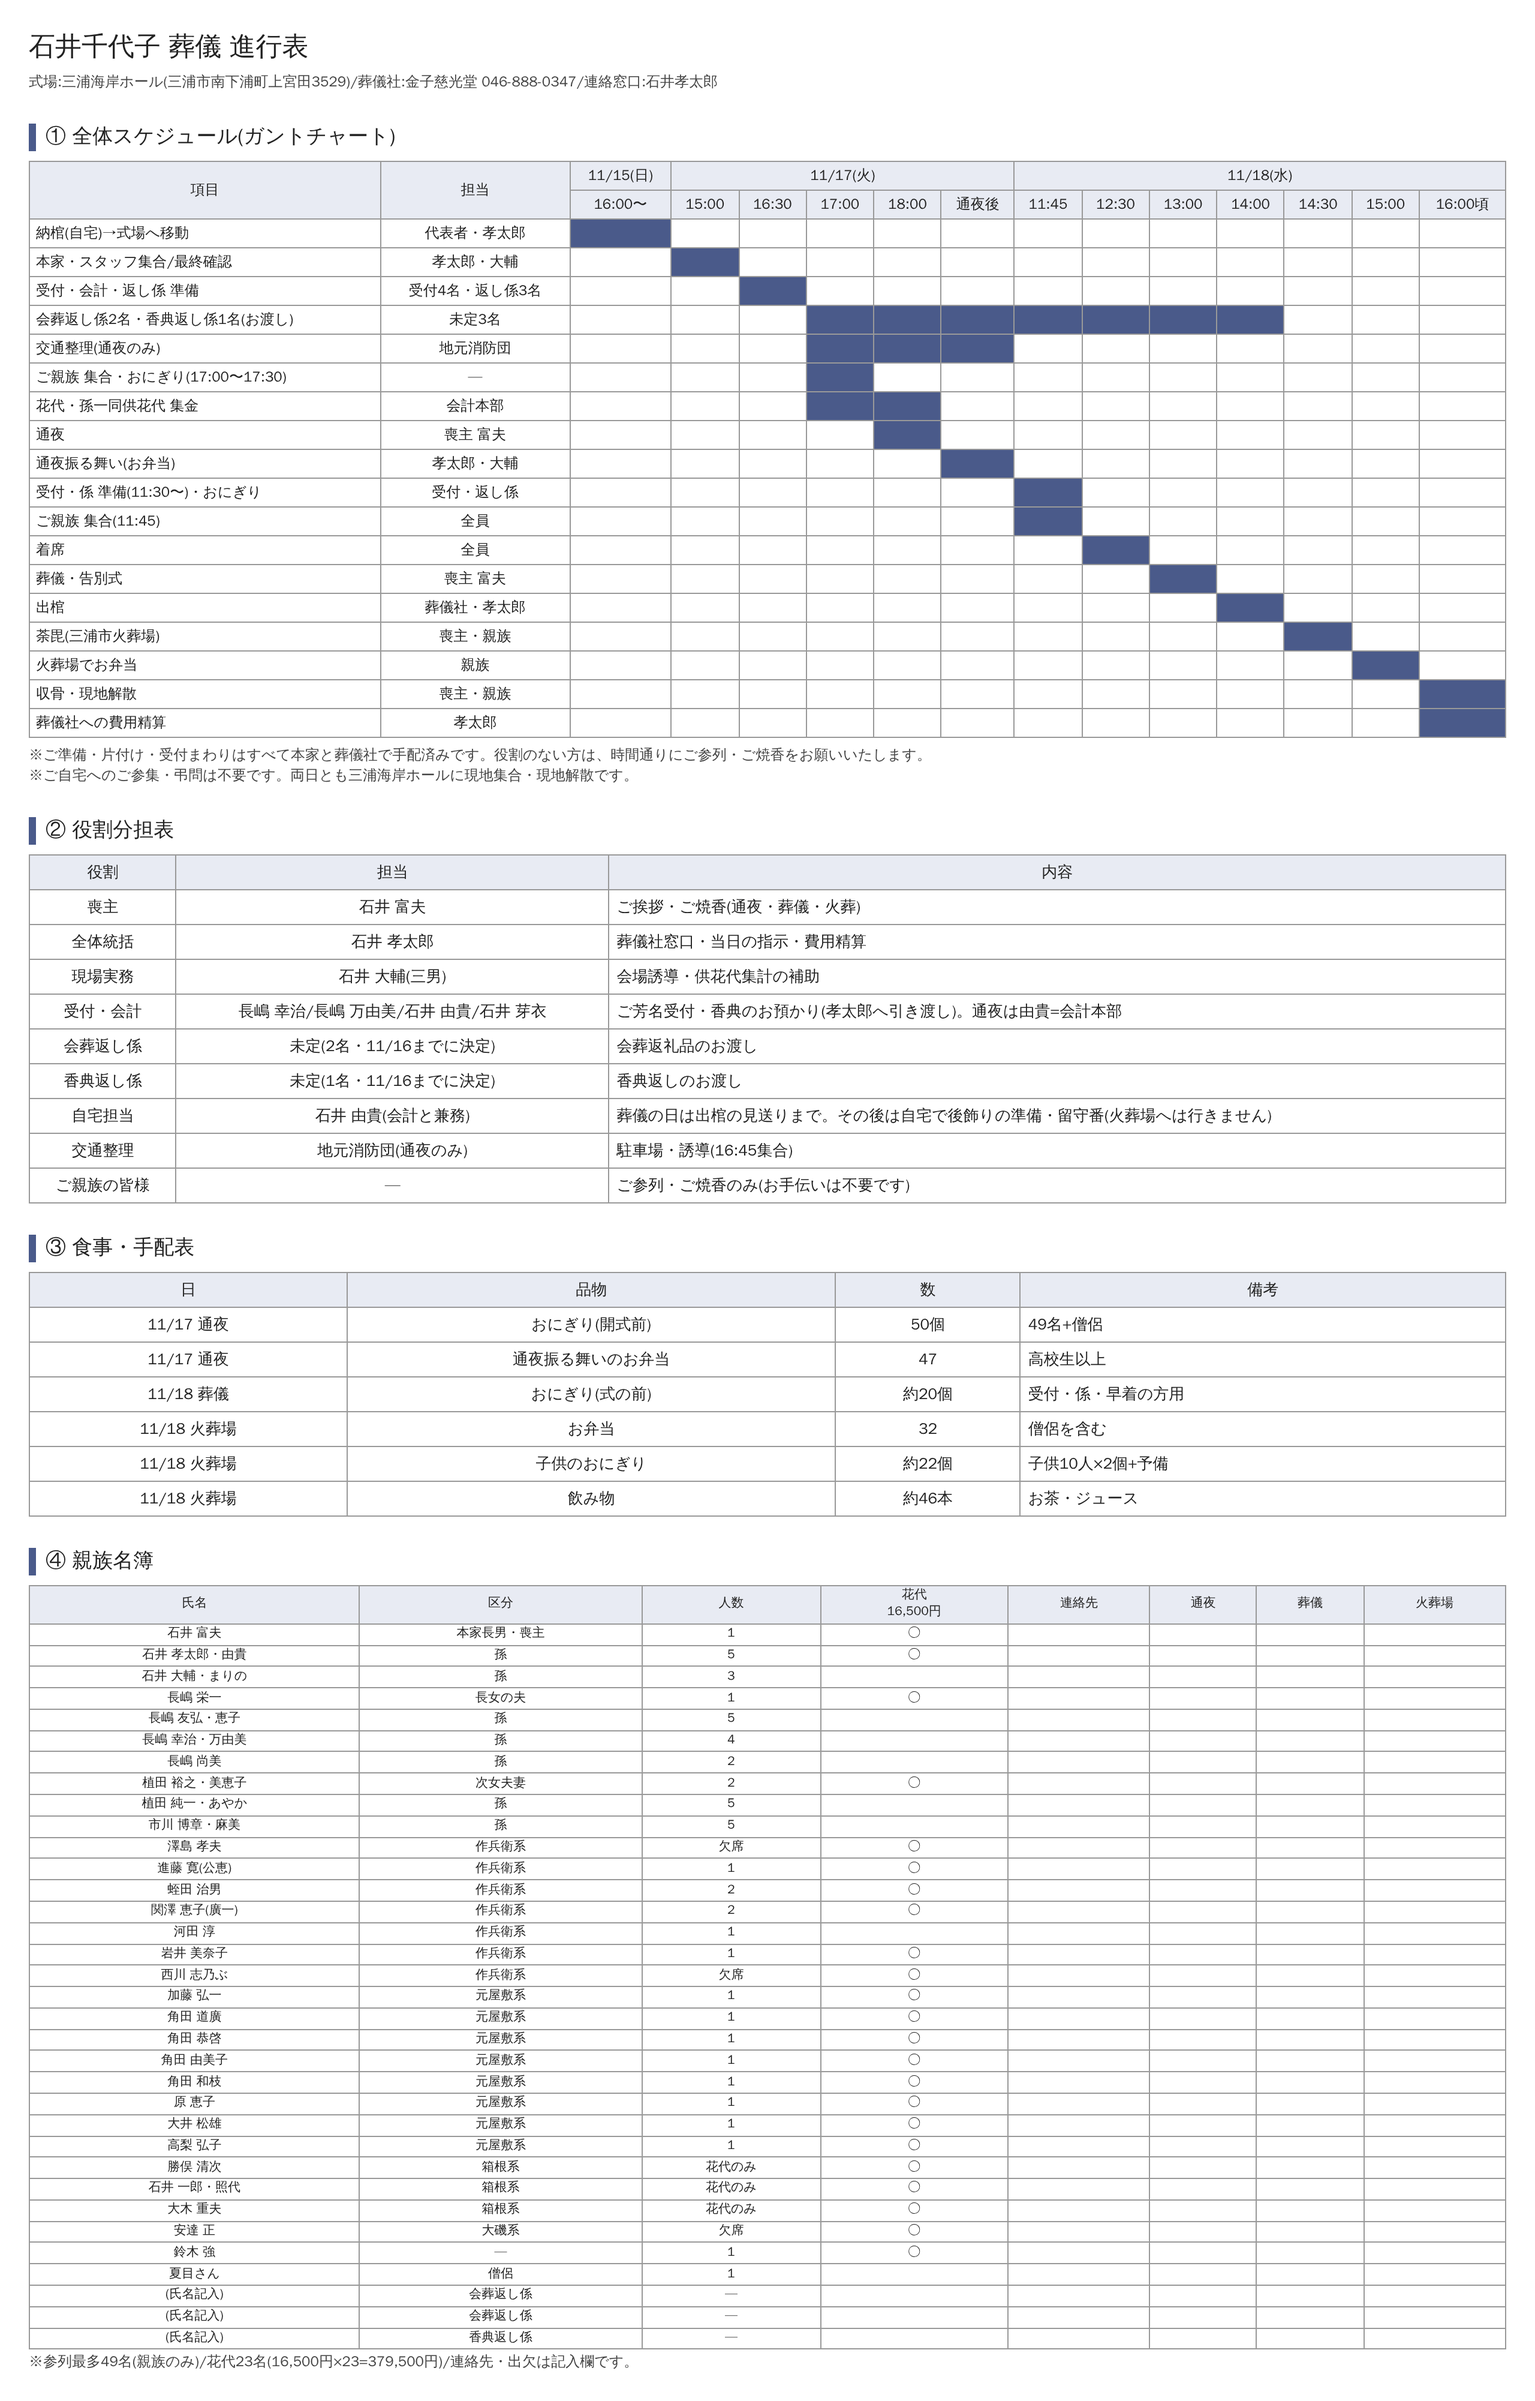
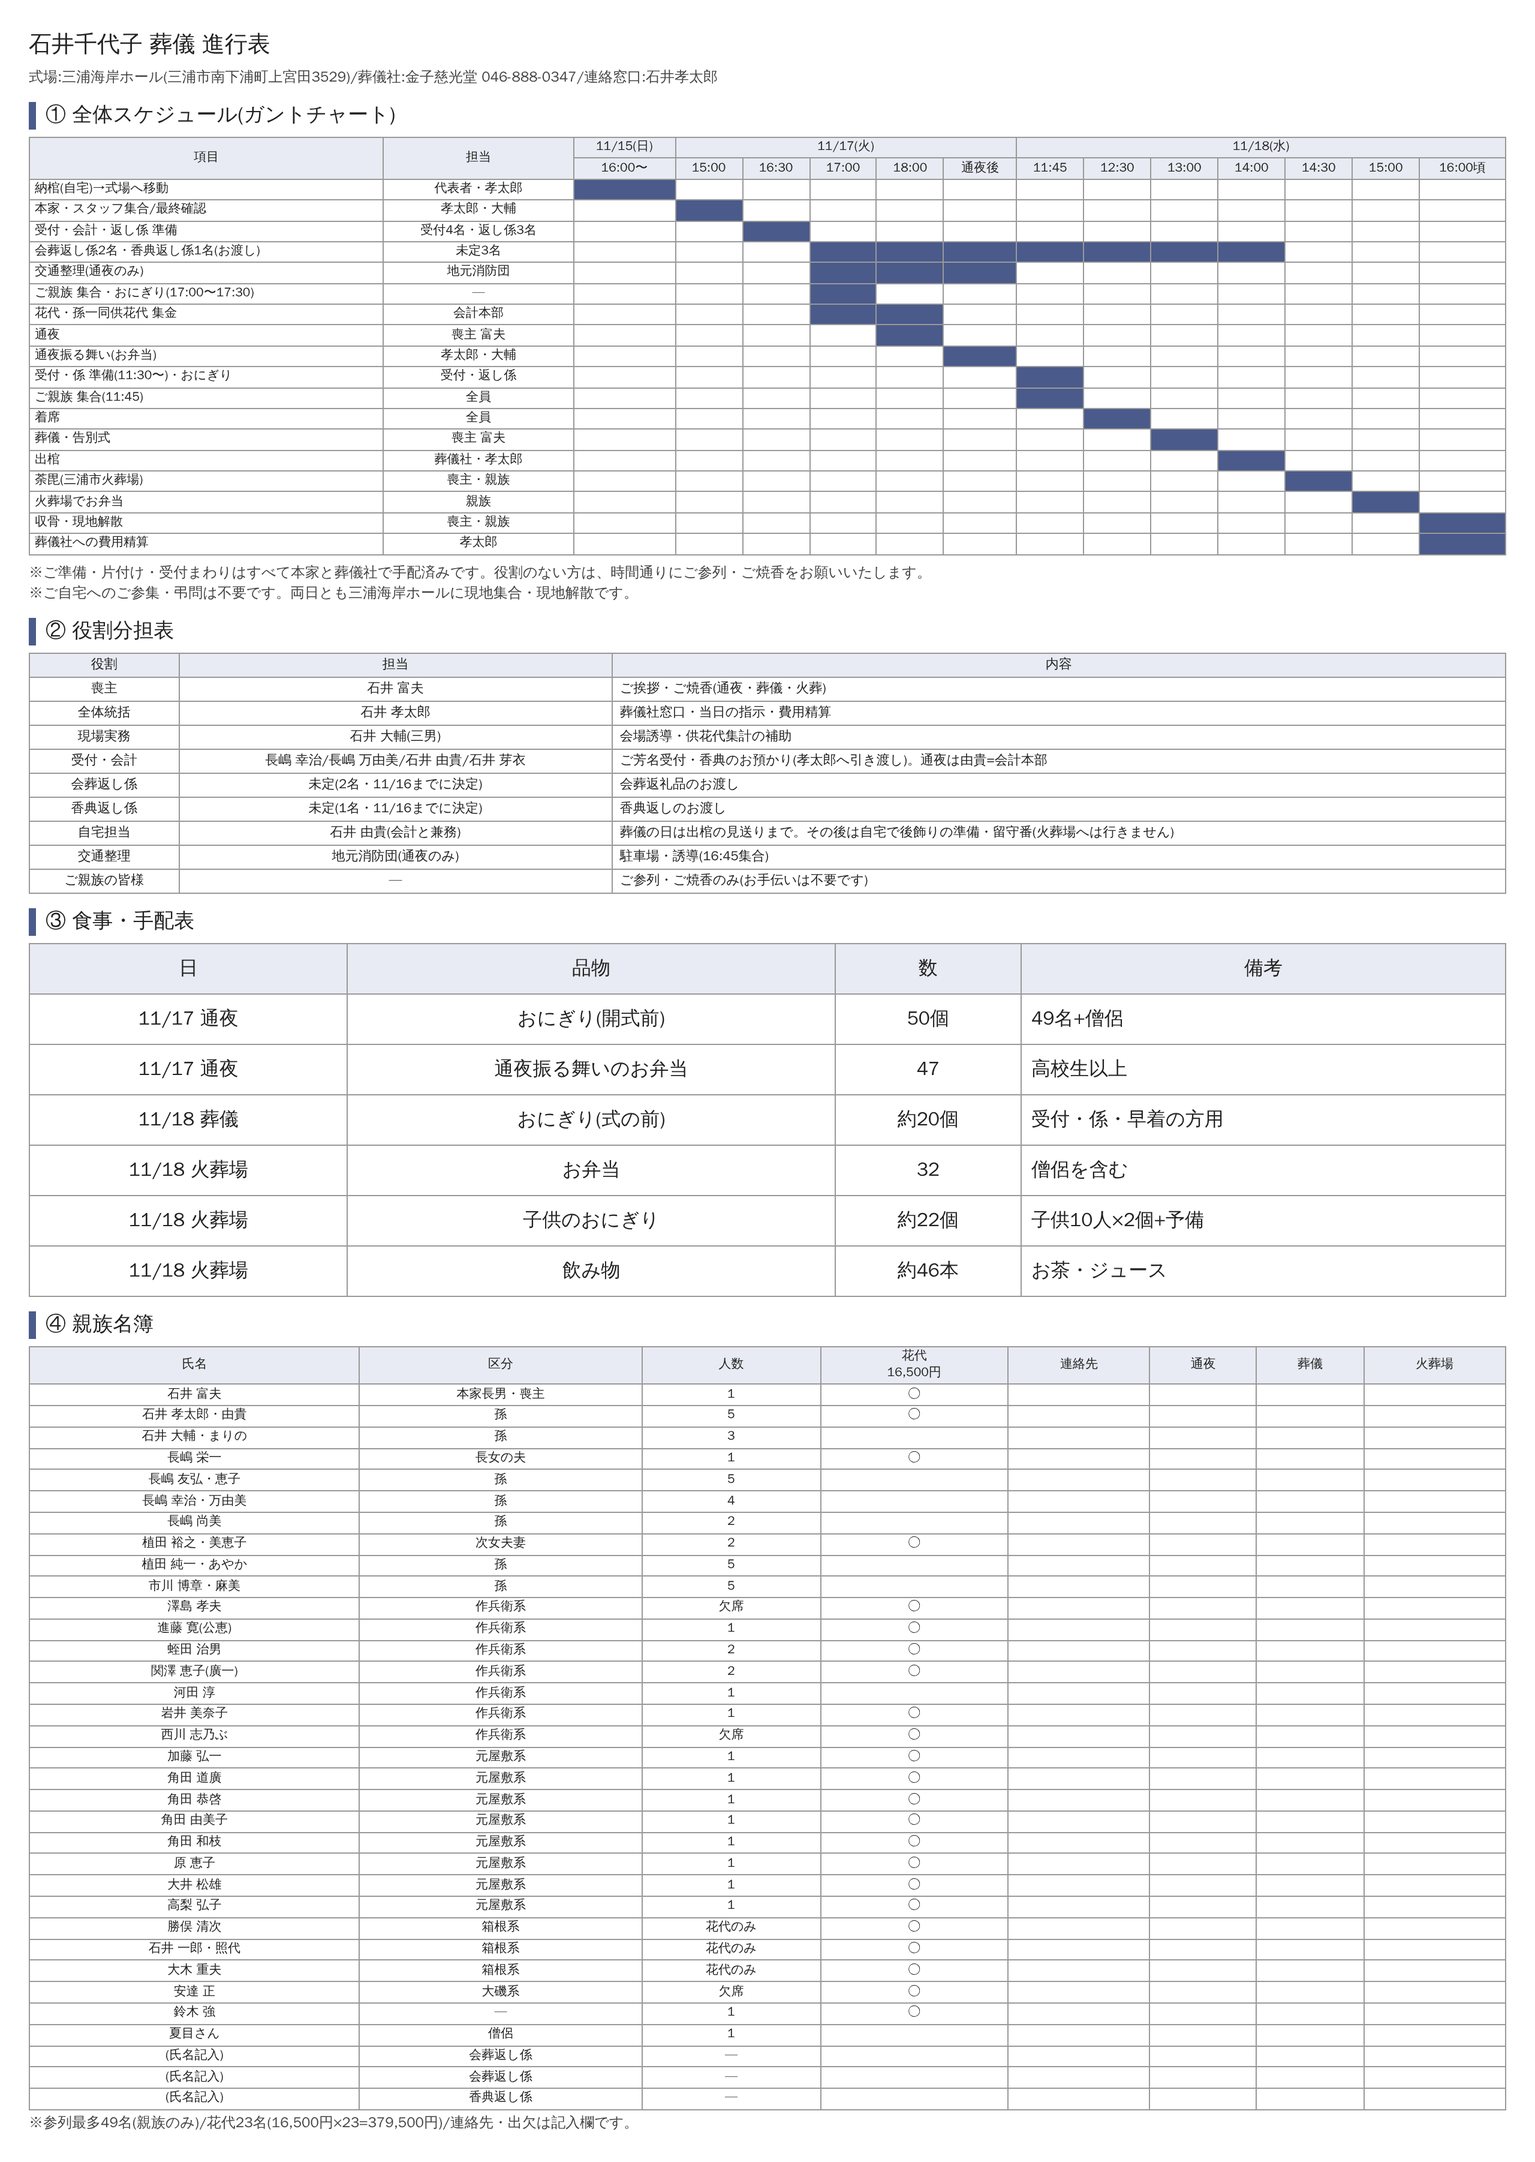
進行表を印刷用に再構成(①②を1枚、③食事手配、④名簿で計3枚)
Claude-Session: https://claude.ai/code/session_017EN71ntz6Y61c3RwKNapL6

Changed region(s): [[0.0, 0.0, 1.0, 0.9945], [0.6562, 0.2797, 0.75, 0.3108], [0.8125, 0.5283, 0.8438, 0.5594]]

diff --git a/葬儀資料/葬儀進行表.html b/葬儀資料/葬儀進行表.html
@@ -1,13 +1,13 @@
 <html><head><meta charset="utf-8"><style>
 body{font-family:"WenQuanYi Zen Hei",sans-serif;margin:24px;color:#222}
-h1{font-size:22px;margin:0}h2{font-size:17px;border-left:6px solid #4a5a8a;padding-left:8px;margin:26px 0 8px}
+h1{font-size:19px;margin:0}h2{font-size:17px;border-left:6px solid #4a5a8a;padding-left:8px;margin:26px 0 8px}
 table{border-collapse:collapse;width:100%;font-size:13px}th,td{border:1px solid #999;padding:5px 6px;text-align:center}
 th{background:#e8ebf3}td.l{text-align:left}.b{background:#4a5a8a}.note{font-size:12px;color:#444;margin-top:6px}
-.pb{page-break-before:always}table.r{font-size:10.5px}table.r th,table.r td{padding:1.4px 5px}table.r+.note{margin-top:2px}table.g th,table.g td{padding:3px 5px;font-size:12px}thead{display:table-header-group}tr{page-break-inside:avoid}@page{size:A4 landscape;margin:10mm}@media print{body{margin:0}}
+.pb{page-break-before:always}table.r{font-size:10.5px}table.r th,table.r td{padding:1.4px 5px}table.r+.note{margin-top:2px}table.g th,table.g td{padding:1.2px 4px;font-size:10.5px}table.ro{font-size:11px}table.ro th,table.ro td{padding:2px 6px}table.t3{font-size:16px}table.t3 th,table.t3 td{padding:10px 8px}h2{margin:12px 0 6px!important}thead{display:table-header-group}tr{page-break-inside:avoid}@page{size:A4 landscape;margin:8mm}@media print{body{margin:0}}
 </style></head><body>
 <h1>石井千代子 葬儀 進行表</h1>
 <div class="note">式場:三浦海岸ホール(三浦市南下浦町上宮田3529)/葬儀社:金子慈光堂 046-888-0347/連絡窓口:石井孝太郎</div>
-<h2>① 全体スケジュール(ガントチャート)</h2><table class=g><tr><th rowspan=2>項目</th><th rowspan=2>担当</th><th colspan=1>11/15(日)</th><th colspan=5>11/17(火)</th><th colspan=7>11/18(水)</th></tr><tr><th>16:00〜</th><th>15:00</th><th>16:30</th><th>17:00</th><th>18:00</th><th>通夜後</th><th>11:45</th><th>12:30</th><th>13:00</th><th>14:00</th><th>14:30</th><th>15:00</th><th>16:00頃</th></tr><tr><td class=l>納棺(自宅)→式場へ移動</td><td>代表者・孝太郎</td><td class=b></td><td></td><td></td><td></td><td></td><td></td><td></td><td></td><td></td><td></td><td></td><td></td><td></td></tr><tr><td class=l>本家・スタッフ集合/最終確認</td><td>孝太郎・大輔</td><td></td><td class=b></td><td></td><td></td><td></td><td></td><td></td><td></td><td></td><td></td><td></td><td></td><td></td></tr><tr><td class=l>受付・会計・返し係 準備</td><td>受付4名・返し係3名</td><td></td><td></td><td class=b></td><td></td><td></td><td></td><td></td><td></td><td></td><td></td><td></td><td></td><td></td></tr><tr><td class=l>会葬返し係2名・香典返し係1名(お渡し)</td><td>未定3名</td><td></td><td></td><td></td><td class=b></td><td class=b></td><td class=b></td><td class=b></td><td class=b></td><td class=b></td><td class=b></td><td></td><td></td><td></td></tr><tr><td class=l>交通整理(通夜のみ)</td><td>地元消防団</td><td></td><td></td><td></td><td class=b></td><td class=b></td><td class=b></td><td></td><td></td><td></td><td></td><td></td><td></td><td></td></tr><tr><td class=l>ご親族 集合・おにぎり(17:00〜17:30)</td><td>—</td><td></td><td></td><td></td><td class=b></td><td></td><td></td><td></td><td></td><td></td><td></td><td></td><td></td><td></td></tr><tr><td class=l>花代・孫一同供花代 集金</td><td>会計本部</td><td></td><td></td><td></td><td class=b></td><td class=b></td><td></td><td></td><td></td><td></td><td></td><td></td><td></td><td></td></tr><tr><td class=l>通夜</td><td>喪主 富夫</td><td></td><td></td><td></td><td></td><td class=b></td><td></td><td></td><td></td><td></td><td></td><td></td><td></td><td></td></tr><tr><td class=l>通夜振る舞い(お弁当)</td><td>孝太郎・大輔</td><td></td><td></td><td></td><td></td><td></td><td class=b></td><td></td><td></td><td></td><td></td><td></td><td></td><td></td></tr><tr><td class=l>受付・係 準備(11:30〜)・おにぎり</td><td>受付・返し係</td><td></td><td></td><td></td><td></td><td></td><td></td><td class=b></td><td></td><td></td><td></td><td></td><td></td><td></td></tr><tr><td class=l>ご親族 集合(11:45)</td><td>全員</td><td></td><td></td><td></td><td></td><td></td><td></td><td class=b></td><td></td><td></td><td></td><td></td><td></td><td></td></tr><tr><td class=l>着席</td><td>全員</td><td></td><td></td><td></td><td></td><td></td><td></td><td></td><td class=b></td><td></td><td></td><td></td><td></td><td></td></tr><tr><td class=l>葬儀・告別式</td><td>喪主 富夫</td><td></td><td></td><td></td><td></td><td></td><td></td><td></td><td></td><td class=b></td><td></td><td></td><td></td><td></td></tr><tr><td class=l>出棺</td><td>葬儀社・孝太郎</td><td></td><td></td><td></td><td></td><td></td><td></td><td></td><td></td><td></td><td class=b></td><td></td><td></td><td></td></tr><tr><td class=l>荼毘(三浦市火葬場)</td><td>喪主・親族</td><td></td><td></td><td></td><td></td><td></td><td></td><td></td><td></td><td></td><td></td><td class=b></td><td></td><td></td></tr><tr><td class=l>火葬場でお弁当</td><td>親族</td><td></td><td></td><td></td><td></td><td></td><td></td><td></td><td></td><td></td><td></td><td></td><td class=b></td><td></td></tr><tr><td class=l>収骨・現地解散</td><td>喪主・親族</td><td></td><td></td><td></td><td></td><td></td><td></td><td></td><td></td><td></td><td></td><td></td><td></td><td class=b></td></tr><tr><td class=l>葬儀社への費用精算</td><td>孝太郎</td><td></td><td></td><td></td><td></td><td></td><td></td><td></td><td></td><td></td><td></td><td></td><td></td><td class=b></td></tr></table><div class="note">※ご準備・片付け・受付まわりはすべて本家と葬儀社で手配済みです。役割のない方は、時間通りにご参列・ご焼香をお願いいたします。<br>※ご自宅へのご参集・弔問は不要です。両日とも三浦海岸ホールに現地集合・現地解散です。</div><h2 class=pb>② 役割分担表</h2><table><tr><th>役割</th><th>担当</th><th>内容</th></tr>
+<h2>① 全体スケジュール(ガントチャート)</h2><table class=g><tr><th rowspan=2>項目</th><th rowspan=2>担当</th><th colspan=1>11/15(日)</th><th colspan=5>11/17(火)</th><th colspan=7>11/18(水)</th></tr><tr><th>16:00〜</th><th>15:00</th><th>16:30</th><th>17:00</th><th>18:00</th><th>通夜後</th><th>11:45</th><th>12:30</th><th>13:00</th><th>14:00</th><th>14:30</th><th>15:00</th><th>16:00頃</th></tr><tr><td class=l>納棺(自宅)→式場へ移動</td><td>代表者・孝太郎</td><td class=b></td><td></td><td></td><td></td><td></td><td></td><td></td><td></td><td></td><td></td><td></td><td></td><td></td></tr><tr><td class=l>本家・スタッフ集合/最終確認</td><td>孝太郎・大輔</td><td></td><td class=b></td><td></td><td></td><td></td><td></td><td></td><td></td><td></td><td></td><td></td><td></td><td></td></tr><tr><td class=l>受付・会計・返し係 準備</td><td>受付4名・返し係3名</td><td></td><td></td><td class=b></td><td></td><td></td><td></td><td></td><td></td><td></td><td></td><td></td><td></td><td></td></tr><tr><td class=l>会葬返し係2名・香典返し係1名(お渡し)</td><td>未定3名</td><td></td><td></td><td></td><td class=b></td><td class=b></td><td class=b></td><td class=b></td><td class=b></td><td class=b></td><td class=b></td><td></td><td></td><td></td></tr><tr><td class=l>交通整理(通夜のみ)</td><td>地元消防団</td><td></td><td></td><td></td><td class=b></td><td class=b></td><td class=b></td><td></td><td></td><td></td><td></td><td></td><td></td><td></td></tr><tr><td class=l>ご親族 集合・おにぎり(17:00〜17:30)</td><td>—</td><td></td><td></td><td></td><td class=b></td><td></td><td></td><td></td><td></td><td></td><td></td><td></td><td></td><td></td></tr><tr><td class=l>花代・孫一同供花代 集金</td><td>会計本部</td><td></td><td></td><td></td><td class=b></td><td class=b></td><td></td><td></td><td></td><td></td><td></td><td></td><td></td><td></td></tr><tr><td class=l>通夜</td><td>喪主 富夫</td><td></td><td></td><td></td><td></td><td class=b></td><td></td><td></td><td></td><td></td><td></td><td></td><td></td><td></td></tr><tr><td class=l>通夜振る舞い(お弁当)</td><td>孝太郎・大輔</td><td></td><td></td><td></td><td></td><td></td><td class=b></td><td></td><td></td><td></td><td></td><td></td><td></td><td></td></tr><tr><td class=l>受付・係 準備(11:30〜)・おにぎり</td><td>受付・返し係</td><td></td><td></td><td></td><td></td><td></td><td></td><td class=b></td><td></td><td></td><td></td><td></td><td></td><td></td></tr><tr><td class=l>ご親族 集合(11:45)</td><td>全員</td><td></td><td></td><td></td><td></td><td></td><td></td><td class=b></td><td></td><td></td><td></td><td></td><td></td><td></td></tr><tr><td class=l>着席</td><td>全員</td><td></td><td></td><td></td><td></td><td></td><td></td><td></td><td class=b></td><td></td><td></td><td></td><td></td><td></td></tr><tr><td class=l>葬儀・告別式</td><td>喪主 富夫</td><td></td><td></td><td></td><td></td><td></td><td></td><td></td><td></td><td class=b></td><td></td><td></td><td></td><td></td></tr><tr><td class=l>出棺</td><td>葬儀社・孝太郎</td><td></td><td></td><td></td><td></td><td></td><td></td><td></td><td></td><td></td><td class=b></td><td></td><td></td><td></td></tr><tr><td class=l>荼毘(三浦市火葬場)</td><td>喪主・親族</td><td></td><td></td><td></td><td></td><td></td><td></td><td></td><td></td><td></td><td></td><td class=b></td><td></td><td></td></tr><tr><td class=l>火葬場でお弁当</td><td>親族</td><td></td><td></td><td></td><td></td><td></td><td></td><td></td><td></td><td></td><td></td><td></td><td class=b></td><td></td></tr><tr><td class=l>収骨・現地解散</td><td>喪主・親族</td><td></td><td></td><td></td><td></td><td></td><td></td><td></td><td></td><td></td><td></td><td></td><td></td><td class=b></td></tr><tr><td class=l>葬儀社への費用精算</td><td>孝太郎</td><td></td><td></td><td></td><td></td><td></td><td></td><td></td><td></td><td></td><td></td><td></td><td></td><td class=b></td></tr></table><div class="note">※ご準備・片付け・受付まわりはすべて本家と葬儀社で手配済みです。役割のない方は、時間通りにご参列・ご焼香をお願いいたします。<br>※ご自宅へのご参集・弔問は不要です。両日とも三浦海岸ホールに現地集合・現地解散です。</div><h2>② 役割分担表</h2><table class=ro><tr><th>役割</th><th>担当</th><th>内容</th></tr>
 <tr><td>喪主</td><td>石井 富夫</td><td class=l>ご挨拶・ご焼香(通夜・葬儀・火葬)</td></tr>
 <tr><td>全体統括</td><td>石井 孝太郎</td><td class=l>葬儀社窓口・当日の指示・費用精算</td></tr>
 <tr><td>現場実務</td><td>石井 大輔(三男)</td><td class=l>会場誘導・供花代集計の補助</td></tr>
@@ -17,7 +17,7 @@ th{background:#e8ebf3}td.l{text-align:left}.b{background:#4a5a8a}.note{font-size
 <tr><td>自宅担当</td><td>石井 由貴(会計と兼務)</td><td class=l>葬儀の日は出棺の見送りまで。その後は自宅で後飾りの準備・留守番(火葬場へは行きません)</td></tr>
 <tr><td>交通整理</td><td>地元消防団(通夜のみ)</td><td class=l>駐車場・誘導(16:45集合)</td></tr>
 <tr><td>ご親族の皆様</td><td>—</td><td class=l>ご参列・ご焼香のみ(お手伝いは不要です)</td></tr></table>
-<h2>③ 食事・手配表</h2><table><tr><th>日</th><th>品物</th><th>数</th><th>備考</th></tr>
+<h2 class=pb>③ 食事・手配表</h2><table class=t3><tr><th>日</th><th>品物</th><th>数</th><th>備考</th></tr>
 <tr><td>11/17 通夜</td><td>おにぎり(開式前)</td><td>50個</td><td class=l>49名+僧侶</td></tr>
 <tr><td>11/17 通夜</td><td>通夜振る舞いのお弁当</td><td>47</td><td class=l>高校生以上</td></tr>
 <tr><td>11/18 葬儀</td><td>おにぎり(式の前)</td><td>約20個</td><td class=l>受付・係・早着の方用</td></tr>
